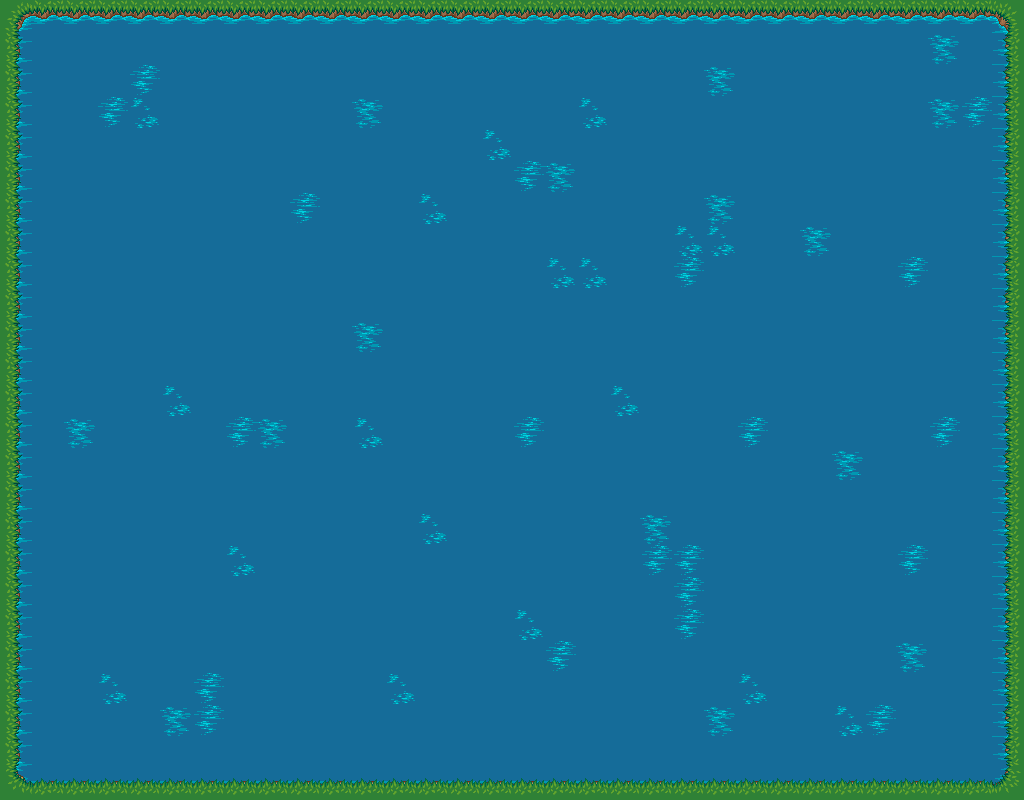
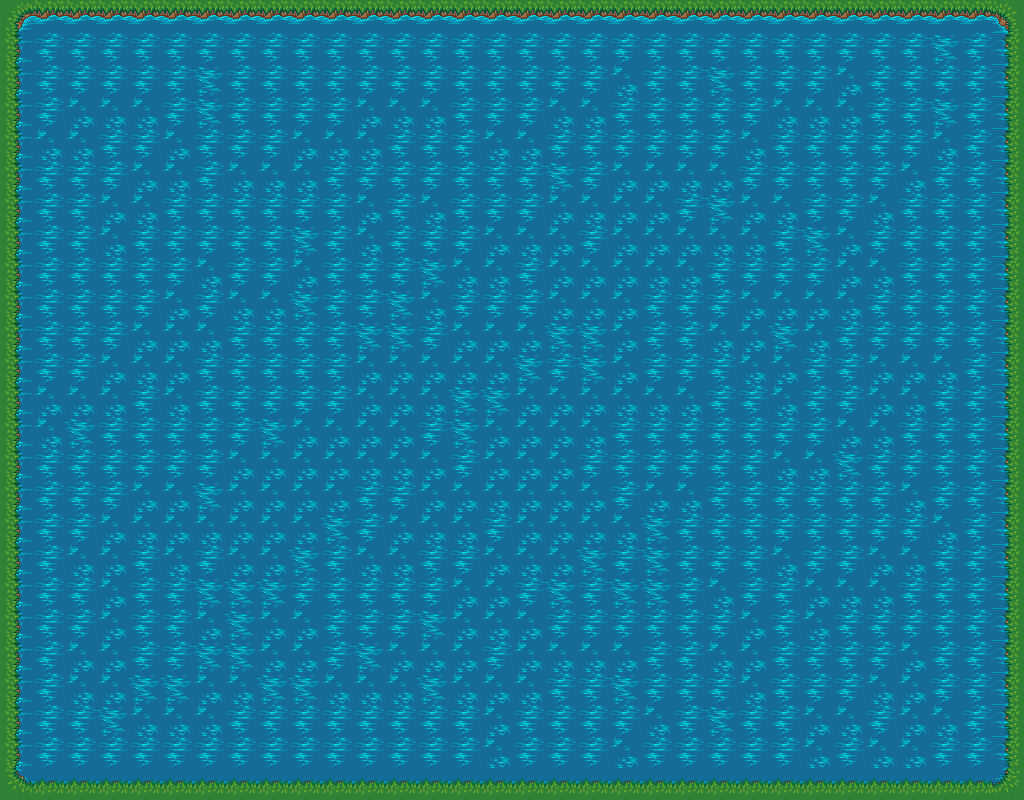
Resolving map's images, fixing monster spawn according to level

Changed region(s): [[0.0312, 0.0312, 0.9688, 0.9688]]

diff --git a/Classes.py b/Classes.py
@@ -234,8 +234,10 @@ class Map():
         self.showGuiLevel = True
         self.start_time = time.time()
         self.backgroundIndex = 0
-        self.backgrounds = [pygame.image.load('background_images/floresta2.png'), pygame.image.load('background_images/floresta3.png'), pygame.image.load('background_images/oceano.png'),
-                            pygame.image.load('background_images/deserto.png'), pygame.image.load('background_images/lava.png'), pygame.image.load('background_images/rocha.png')]
+        self.backgrounds = [pygame.image.load('background_images/floresta.png'), pygame.image.load('background_images/floresta_escura.png'),
+                            pygame.image.load('background_images/oceano.png'), pygame.image.load('background_images/deserto.png'),
+                            pygame.image.load('background_images/metal.png'), pygame.image.load('background_images/lava.png'),
+                            pygame.image.load('background_images/rocha.png')]
 
     def spawnMonsters(self, amount, image, life):
         for i in range(amount):
@@ -265,11 +267,15 @@ class Map():
                 self.allies.append(Monster((rd.randint(0, 1000), rd.randint(770, 770+(30*amount))), image, life))
 
     def showLevelGUI(self):
-        screen.blit(pygame.font.SysFont('arial', 200).render("LEVEL " + str(self.level), True, (0, 0, 0)), (SCREEN_WIDTH/2-300, SCREEN_HEIGHT/2-150))
+        if self.level < 10:
+            screen.blit(pygame.font.SysFont('arial', 200).render("LEVEL " + str(self.level), True, (0, 0, 0)), (SCREEN_WIDTH/2-(300), SCREEN_HEIGHT/2-150))
+        else:
+            screen.blit(pygame.font.SysFont('arial', 200).render("LEVEL " + str(self.level), True, (0, 0, 0)), (SCREEN_WIDTH/2-(380), SCREEN_HEIGHT/2-150))
 
     def changeLevel(self):
         self.level += 1
-        self.backgroundIndex = math.floor(self.level/5-0.1)
+        if self.level <= 35:
+            self.backgroundIndex = math.floor(self.level/5-0.1)
         self.quant += 1
         if (self.quant-1)%5 == 0:
             self.quant = 1
@@ -283,8 +289,10 @@ class Map():
         elif self.level <= 20:
             self.spawnMonsters(self.quant, images.getStapoImages(), 4)
         elif self.level <= 25:
+            self.spawnMonsters(self.quant, images.getMetallingImages(), 5)
+        elif self.level <= 30:
             self.spawnMonsters(self.quant, images.getMagmaringImages(), 5)
-        elif self.level > 25:
+        elif self.level > 30:
             self.spawnMonsters(self.quant, images.getDevelingImages(), 6)
             
         if rd.random() > 0.65:
@@ -322,7 +330,7 @@ win = False
 image = pygame.image.load('sprites_player/sprite' + str(player1.passo) + '_player_' + str(player1.grau) + '.png')
 
 while inGame:
-    pygame.time.Clock().tick(30)
+    pygame.time.Clock().tick(60)
     screen.fill((255, 255, 255))
     game_map.blitBackgroundMap(screen)
 
